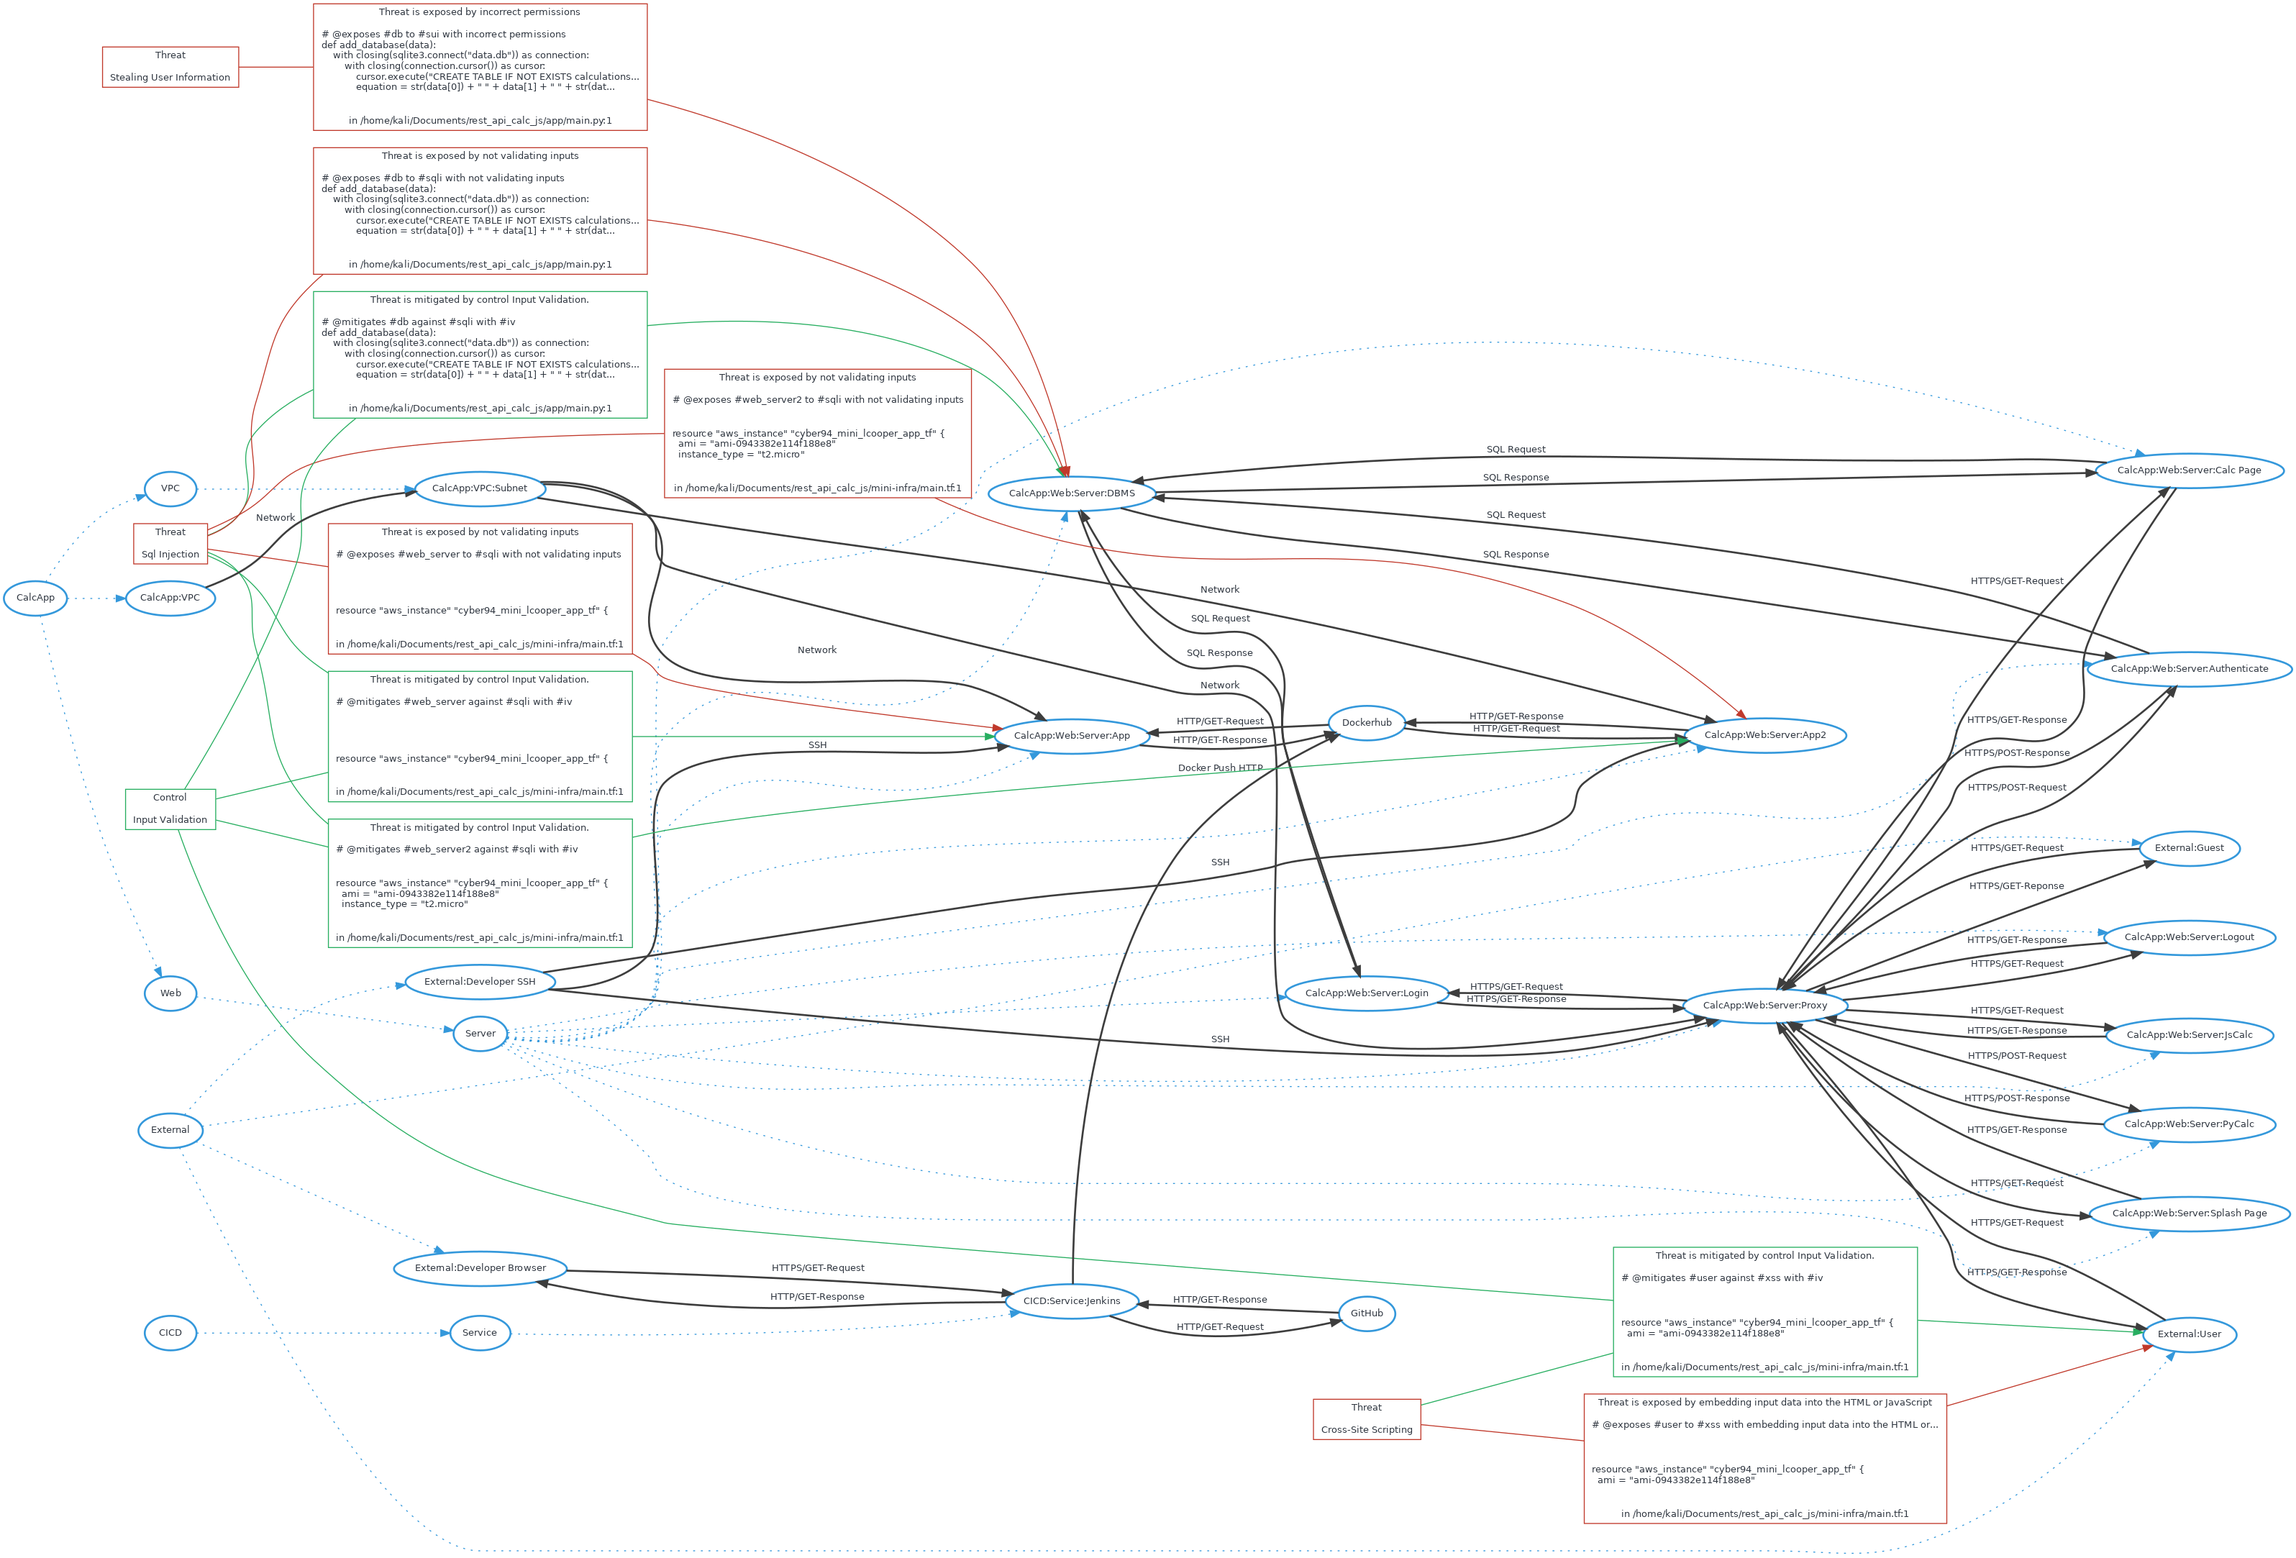
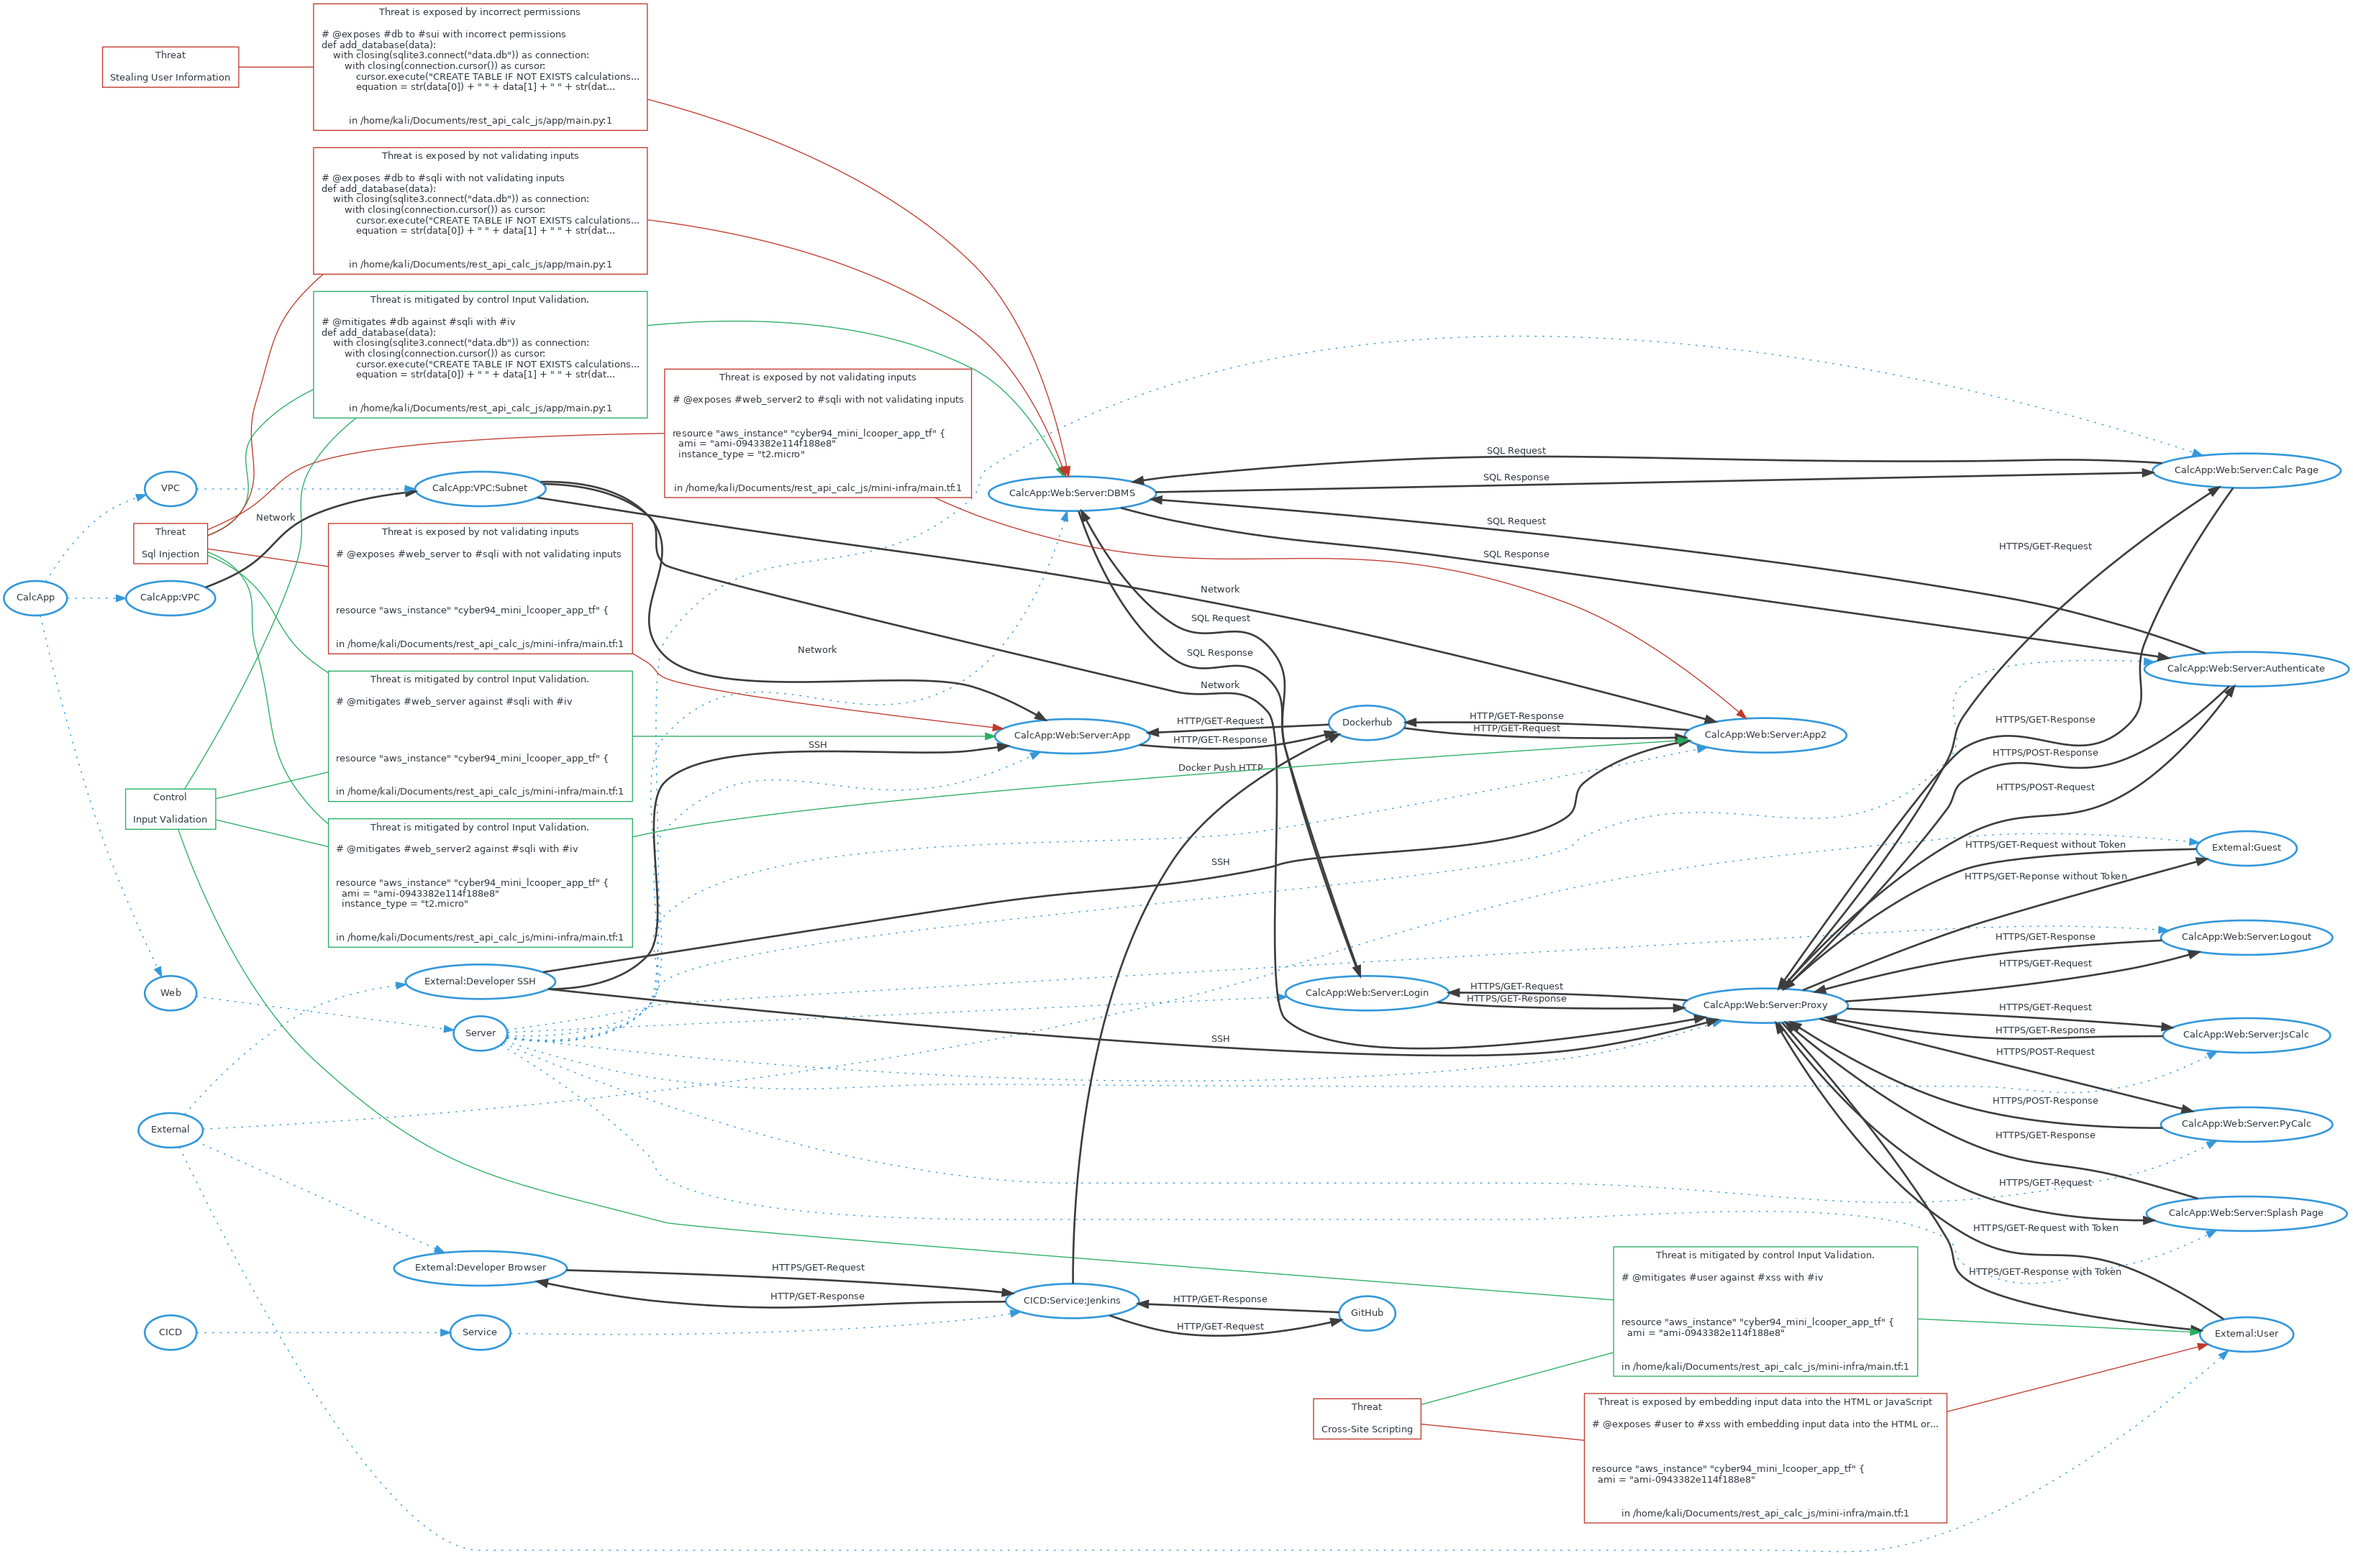
Added token messages to threat model

diff --git a/app/main.py b/app/main.py
@@ -105,12 +105,12 @@ def calculator():
 
 
 # @component External:User (#user)
-# @connects #user to #proxy with HTTPS/GET-Request
-# @connects #proxy to #user with HTTPS/GET-Response
+# @connects #user to #proxy with HTTPS/GET-Request with Token
+# @connects #proxy to #user with HTTPS/GET-Response with Token
 
 # @component External:Guest (#guest)
-# @connects #guest to #proxy with HTTPS/GET-Request
-# @connects #proxy to #guest with HTTPS/GET-Reponse
+# @connects #guest to #proxy with HTTPS/GET-Request without Token
+# @connects #proxy to #guest with HTTPS/GET-Reponse without Token
 
 # @component External:Developer SSH (#ssh)
 # @connects #ssh to #proxy with SSH

diff --git a/ThreatModel.md b/ThreatModel.md
@@ -264,10 +264,10 @@ def calculator():
 /home/kali/Documents/rest_api_calc_js/app/main.py:1
 
 ## External:User To CalcApp:Web:Server:Proxy
-HTTPS/GET-Request
+HTTPS/GET-Request with Token
 
 ```
-# @connects #user to #proxy with HTTPS/GET-Request
+# @connects #user to #proxy with HTTPS/GET-Request with Token
 
 
 
@@ -278,10 +278,10 @@ def splash_page():
 /home/kali/Documents/rest_api_calc_js/app/main.py:1
 
 ## CalcApp:Web:Server:Proxy To External:User
-HTTPS/GET-Response
+HTTPS/GET-Response with Token
 
 ```
-# @connects #proxy to #user with HTTPS/GET-Response
+# @connects #proxy to #user with HTTPS/GET-Response with Token
 
 
 
@@ -292,10 +292,10 @@ def splash_page():
 /home/kali/Documents/rest_api_calc_js/app/main.py:1
 
 ## External:Guest To CalcApp:Web:Server:Proxy
-HTTPS/GET-Request
+HTTPS/GET-Request without Token
 
 ```
-# @connects #guest to #proxy with HTTPS/GET-Request
+# @connects #guest to #proxy with HTTPS/GET-Request without Token
 
 
 @flask_app.route('/')
@@ -306,10 +306,10 @@ def splash_page():
 /home/kali/Documents/rest_api_calc_js/app/main.py:1
 
 ## CalcApp:Web:Server:Proxy To External:Guest
-HTTPS/GET-Reponse
+HTTPS/GET-Reponse without Token
 
 ```
-# @connects #proxy to #guest with HTTPS/GET-Reponse
+# @connects #proxy to #guest with HTTPS/GET-Reponse without Token
 
 
 @flask_app.route('/')
